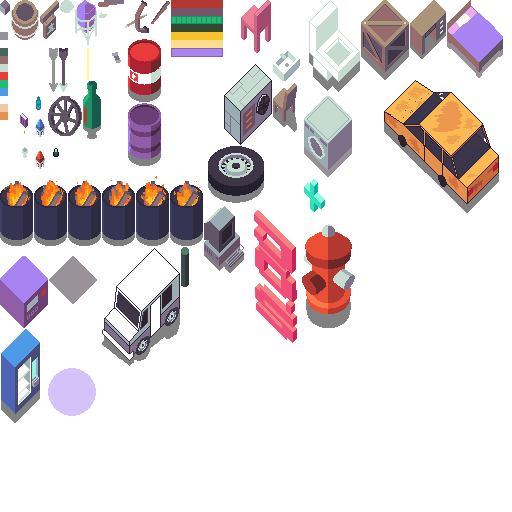
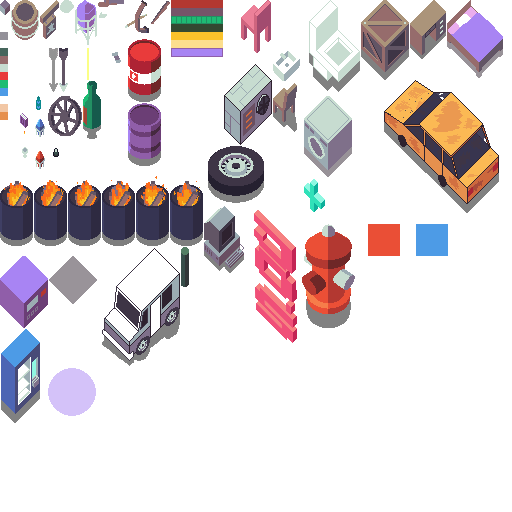
0.8.302

Changed region(s): [[0.8125, 0.4375, 0.875, 0.5], [0.7188, 0.4375, 0.7812, 0.5]]

diff --git a/gamestream_flutter/lib/atlases/atlas_items.dart b/gamestream_flutter/lib/atlases/atlas_items.dart
@@ -37,6 +37,8 @@ class AtlasItems {
         ItemType.GameObjects_Neon_Sign_02: 304,
         ItemType.GameObjects_Vending_Upgrades: 1,
         ItemType.GameObjects_Pipe_Vertical: 181,
+        ItemType.GameObjects_Flag_Red: 368,
+        ItemType.GameObjects_Flag_Blue: 416,
         ItemType.Resource_Credit: 448,
         ItemType.Trinket_Ring_of_Health: 256,
         ItemType.Trinket_Ring_of_Damage: 288,
@@ -137,6 +139,8 @@ class AtlasItems {
         ItemType.GameObjects_Neon_Sign_02: 179,
         ItemType.GameObjects_Vending_Upgrades: 329,
         ItemType.GameObjects_Pipe_Vertical: 247,
+        ItemType.GameObjects_Flag_Red: 224,
+        ItemType.GameObjects_Flag_Blue: 224,
         ItemType.Trinket_Ring_of_Health: 32,
         ItemType.Trinket_Ring_of_Damage: 32,
         ItemType.Weapon_Ranged_Shotgun: 243,
@@ -231,6 +235,8 @@ class AtlasItems {
         ItemType.GameObjects_Neon_Sign_02: 21,
         ItemType.GameObjects_Vending_Upgrades: 39,
         ItemType.GameObjects_Pipe_Vertical: 8,
+        ItemType.GameObjects_Flag_Red: 32,
+        ItemType.GameObjects_Flag_Blue: 32,
         ItemType.Weapon_Ranged_Sniper_Rifle: 121,
         ItemType.Weapon_Ranged_Flamethrower: 114,
         ItemType.Weapon_Ranged_Bazooka: 117,
@@ -277,6 +283,8 @@ class AtlasItems {
     ItemType.GameObjects_Neon_Sign_02: 33,
     ItemType.GameObjects_Vending_Upgrades: 94,
     ItemType.GameObjects_Pipe_Vertical: 40,
+    ItemType.GameObjects_Flag_Red: 32,
+    ItemType.GameObjects_Flag_Blue: 32,
     ItemType.Weapon_Ranged_Sniper_Rifle: 37,
     ItemType.Weapon_Ranged_Bazooka: 52,
     ItemType.Weapon_Ranged_Minigun: 12,

diff --git a/bleed-server/lib/src/games/isometric/isometric_player.dart b/bleed-server/lib/src/games/isometric/isometric_player.dart
@@ -1002,9 +1002,7 @@ class IsometricPlayer extends IsometricCharacter with ByteWriter implements Play
     writeCharacters();
     writeEditorGameObjectSelected();
 
-    if (game.time.enabled){
-      writeGameTime(game.time.time);
-    }
+    writeGameTime();
 
     if (inventoryDirty) {
       inventoryDirty = false;
@@ -1108,6 +1106,7 @@ class IsometricPlayer extends IsometricCharacter with ByteWriter implements Play
     writeGameType();
     writeWeather();
     writeGameObjects();
+    writeGameTime();
     game.customDownloadScene(this);
     writePlayerEvent(PlayerEvent.Scene_Changed);
     sceneDownloaded = true;
@@ -1284,9 +1283,9 @@ class IsometricPlayer extends IsometricCharacter with ByteWriter implements Play
     writeString(message);
   }
 
-  void writeGameTime(int time){
+  void writeGameTime(){
     writeByte(ServerResponse.Game_Time);
-    writeUInt24(time);
+    writeUInt24(game.time.time);
   }
 
   void writeProjectile(IsometricProjectile projectile){

diff --git a/bleed-server/lib/src/games/isometric/isometric_game.dart b/bleed-server/lib/src/games/isometric/isometric_game.dart
@@ -1196,7 +1196,6 @@ abstract class IsometricGame<T extends IsometricPlayer> extends Game<T> {
 
   void setHourMinutes(int hour, int minutes) {
     time.time = (hour * 60 * 60) + (minutes * 60);
-    // environment.updateShade();
     playersWriteWeather();
   }
 
@@ -1490,7 +1489,7 @@ abstract class IsometricGame<T extends IsometricPlayer> extends Game<T> {
     player.writePlayerAlive();
     player.writePlayerStats();
     player.writePlayerCredits();
-    player.writeGameTime(time.time);
+    player.writeGameTime();
     player.health = player.maxHealth;
   }
 
@@ -1505,7 +1504,7 @@ abstract class IsometricGame<T extends IsometricPlayer> extends Game<T> {
   void playersWriteWeather() {
     for (final player in players) {
       player.writeWeather();
-      player.writeGameTime(time.time);
+      player.writeGameTime();
       player.writeEnvironmentLightningFlashing(environment.lightningFlashing);
     }
   }

diff --git a/gamestream_flutter/lib/gamestream/games/capture_the_flag/capture_the_flag_game.dart b/gamestream_flutter/lib/gamestream/games/capture_the_flag/capture_the_flag_game.dart
@@ -7,16 +7,16 @@ import 'package:gamestream_flutter/gamestream/games/isometric/game_isometric_ui.
 
 class CaptureTheFlagGame extends GameIsometric {
 
-  @override
-  Widget buildUI(BuildContext context) {
-    return Stack(
-      children: [
-        Positioned(
-            bottom: 16,
-            right: 16,
-            child: GameIsometricUI.buildMapCircle(size: 200),
-        ),
-      ],
-    );
-  }
+  // @override
+  // Widget buildUI(BuildContext context) {
+  //   return Stack(
+  //     children: [
+  //       Positioned(
+  //           bottom: 16,
+  //           right: 16,
+  //           child: GameIsometricUI.buildMapCircle(size: 200),
+  //       ),
+  //     ],
+  //   );
+  // }
 }

diff --git a/bleed-server/lib/src/websocket/websocket_connection.dart b/bleed-server/lib/src/websocket/websocket_connection.dart
@@ -960,7 +960,7 @@ class WebSocketConnection with ByteReader {
 
     joinGame(CaptureTheFlagGame(
           scene: IsometricSceneGenerator.generateEmptyScene(),
-          time: IsometricTime(enabled: false),
+          time: IsometricTime(enabled: false, hour: 12),
           environment: IsometricEnvironment(),
         )
     );

diff --git a/bleed-common/lib/src/version.dart b/bleed-common/lib/src/version.dart
@@ -1,4 +1,4 @@
-const version = '0.8.301';
+const version = '0.8.302';
 
 
 

diff --git a/bleed-server/lib/common/src/version.dart b/bleed-server/lib/common/src/version.dart
@@ -1,4 +1,4 @@
-const version = '0.8.301';
+const version = '0.8.302';
 
 
 
